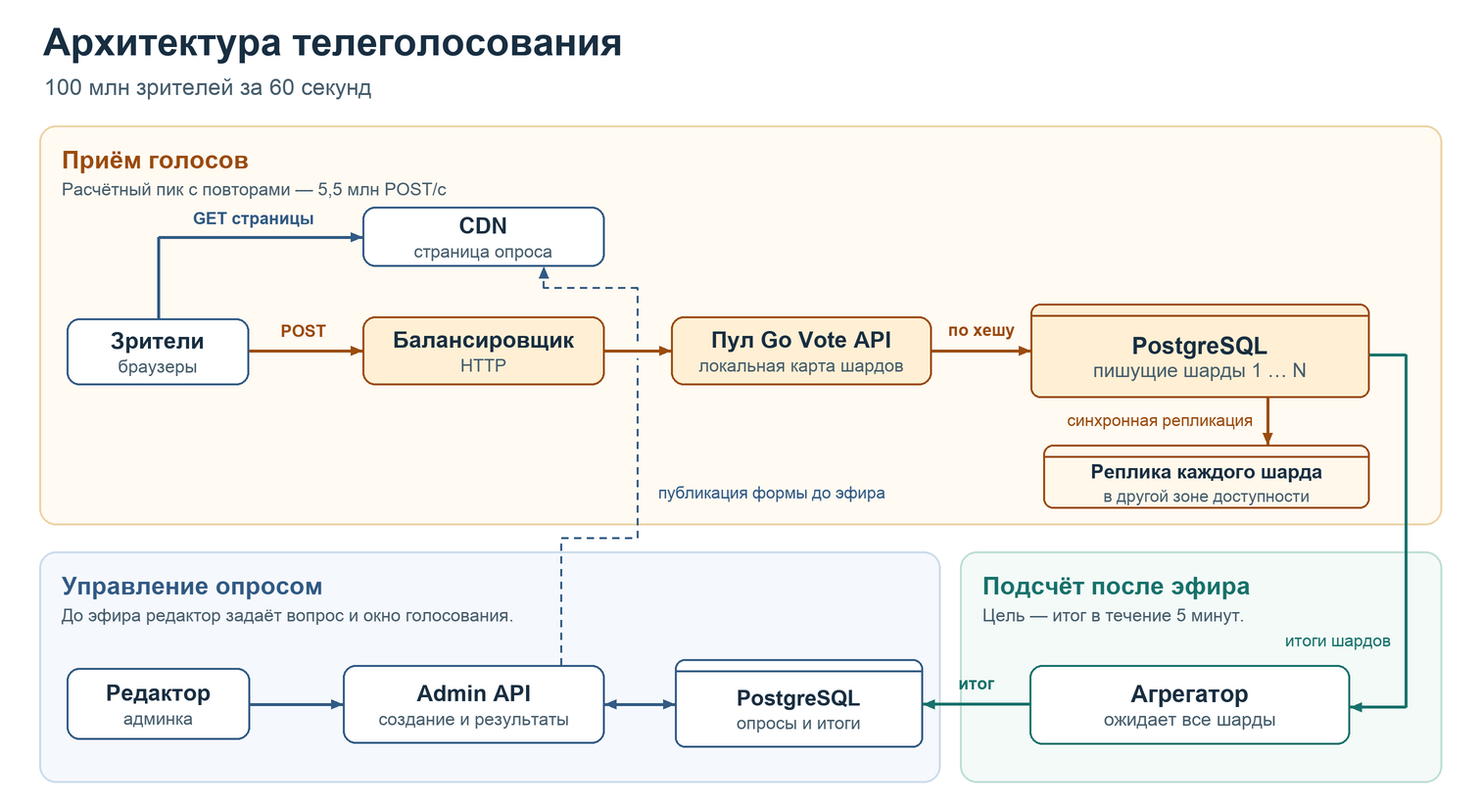
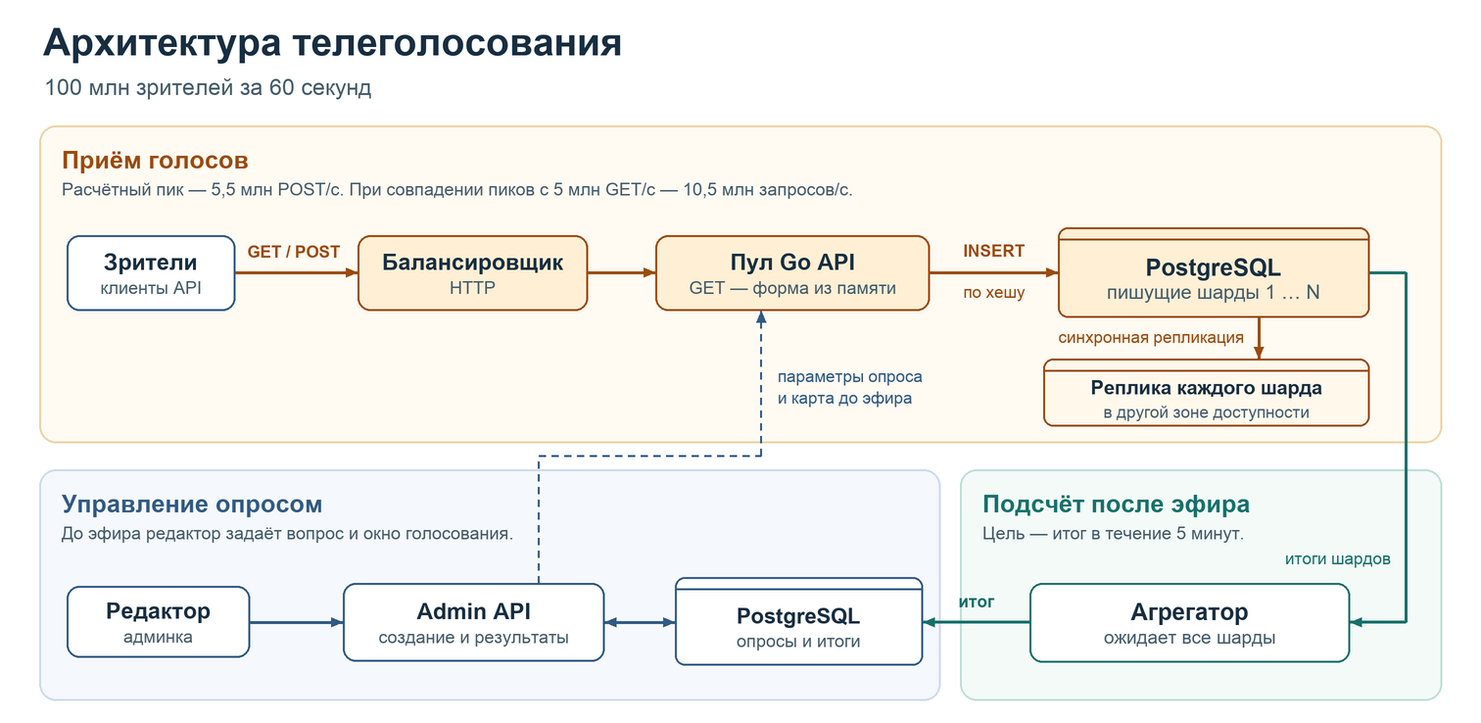
Serve polls and accept votes directly through the Go API

diff --git a/scripts/render_architecture.py b/scripts/render_architecture.py
@@ -6,7 +6,7 @@ from pathlib import Path
 from PIL import Image, ImageDraw, ImageFont
 
 
-WIDTH, HEIGHT = 1512, 822
+WIDTH, HEIGHT = 1512, 738
 SCALE = 2
 canvas = Image.new("RGB", (WIDTH * SCALE, HEIGHT * SCALE), "white")
 draw = ImageDraw.Draw(canvas)
@@ -93,38 +93,38 @@ def group(box, fill, outline, title, subtitle, color):
 
 label(44, 43, 'Архитектура телеголосования', 39, ink, True)
 label(45, 89, '100 млн зрителей за 60 секунд', 23, muted)
-group((40, 128, 1472, 536), '#fffaf2', '#ebd3a5', 'Приём голосов', 'Расчётный пик с повторами — 5,5 млн POST/с', hot)
-group((40, 563, 960, 799), '#f5f8fd', '#cbdbea', 'Управление опросом', 'До эфира редактор задаёт вопрос и окно голосования.', cold)
-group((980, 563, 1472, 799), '#f3faf8', '#bdded6', 'Подсчёт после эфира', 'Цель — итог в течение 5 минут.', tally)
-publication_path = [(573, 679), (573, 549), (651, 549), (651, 366)]
-line(publication_path, cold, 2, True)
-arrow([(651, 348), (651, 294), (555, 294), (555, 272)], cold, 2, True)
-arrow([(162, 325), (162, 242), (370, 242)], cold)
-arrow([(254, 358), (370, 358)], hot)
-arrow([(617, 358), (685, 358)], hot)
-arrow([(951, 358), (1052, 358)], hot)
-arrow([(1294, 406), (1294, 454)], hot)
-arrow([(255, 719), (350, 719)], cold)
-arrow([(617, 719), (689, 719)], cold, 3, False, True)
-arrow([(1398, 362), (1435, 362), (1435, 722), (1378, 722)], tally)
-arrow([(1051, 719), (942, 719)], tally)
-label(259, 223, 'GET страницы', 17, cold, True, 'mm')
-label(310, 338, 'POST', 17, hot, True, 'mm')
-label(1002, 337, 'по хешу', 17, hot, True, 'mm')
-label(1279, 429, 'синхронная репликация', 17, hot, False, 'rm')
-label(672, 503, 'публикация формы до эфира', 17, cold, False, 'lm')
-label(997, 698, 'итог', 17, tally, True, 'mm')
-label(1420, 654, 'итоги шардов', 17, tally, False, 'rm')
-node((68, 325, 254, 393), 'Зрители', 'браузеры', cold, '#ffffff')
-node((370, 211, 617, 272), 'CDN', 'страница опроса', cold, '#ffffff')
-node((370, 323, 617, 393), 'Балансировщик', 'HTTP', hot, '#ffefd4')
-node((685, 323, 951, 393), 'Пул Go Vote API', 'локальная карта шардов', hot, '#ffefd4')
-database((1052, 310, 1398, 406), 'PostgreSQL', 'пишущие шарды 1 … N', hot, '#ffefd4', 24, 20)
-database((1065, 454, 1398, 519), 'Реплика каждого шарда', 'в другой зоне доступности', hot, '#fff8eb', 20, 17)
-node((68, 682, 255, 755), 'Редактор', 'админка', cold)
-node((350, 679, 617, 759), 'Admin API', 'создание и результаты', cold)
-database((689, 673, 942, 763), 'PostgreSQL', 'опросы и итоги', cold, '#ffffff', 22, 18)
-node((1051, 679, 1378, 760), 'Агрегатор', 'ожидает все шарды', tally, '#ffffff', 24, 19)
+group((40, 128, 1472, 452), '#fffaf2', '#ebd3a5', 'Приём голосов', 'Расчётный пик — 5,5 млн POST/с. При совпадении пиков с 5 млн GET/с — 10,5 млн запросов/с.', hot)
+group((40, 479, 960, 715), '#f5f8fd', '#cbdbea', 'Управление опросом', 'До эфира редактор задаёт вопрос и окно голосования.', cold)
+group((980, 479, 1472, 715), '#f3faf8', '#bdded6', 'Подсчёт после эфира', 'Цель — итог в течение 5 минут.', tally)
+
+arrow([(550, 595), (550, 465), (777, 465), (777, 317)], cold, 2, True)
+arrow([(240, 278), (365, 278)], hot)
+arrow([(600, 278), (669, 278)], hot)
+arrow([(949, 278), (1080, 278)], hot)
+arrow([(1285, 324), (1285, 366)], hot)
+arrow([(255, 635), (350, 635)], cold)
+arrow([(617, 635), (689, 635)], cold, 3, False, True)
+arrow([(1398, 278), (1435, 278), (1435, 635), (1378, 635)], tally)
+arrow([(1051, 635), (942, 635)], tally)
+
+label(300, 257, 'GET / POST', 17, hot, True, 'mm')
+label(1015, 256, 'INSERT', 17, hot, True, 'mm')
+label(1015, 298, 'по хешу', 17, hot, False, 'mm')
+label(1270, 344, 'синхронная репликация', 17, hot, False, 'rm')
+label(794, 384, 'параметры опроса', 17, cold)
+label(794, 406, 'и карта до эфира', 17, cold)
+label(997, 614, 'итог', 17, tally, True, 'mm')
+label(1420, 570, 'итоги шардов', 17, tally, False, 'rm')
+
+node((68, 240, 240, 317), 'Зрители', 'клиенты API', cold)
+node((365, 240, 600, 317), 'Балансировщик', 'HTTP', hot, '#ffefd4')
+node((669, 240, 949, 317), 'Пул Go API', 'GET — форма из памяти', hot, '#ffefd4')
+database((1080, 232, 1398, 324), 'PostgreSQL', 'пишущие шарды 1 … N', hot, '#ffefd4', 24, 20)
+database((1065, 366, 1398, 435), 'Реплика каждого шарда', 'в другой зоне доступности', hot, '#fff8eb', 20, 17)
+node((68, 598, 255, 671), 'Редактор', 'админка', cold)
+node((350, 595, 617, 675), 'Admin API', 'создание и результаты', cold)
+database((689, 589, 942, 679), 'PostgreSQL', 'опросы и итоги', cold, '#ffffff', 22, 18)
+node((1051, 595, 1378, 676), 'Агрегатор', 'ожидает все шарды', tally, '#ffffff', 24, 19)
 
 output = Path(__file__).resolve().parents[1] / "architecture.png"
 canvas.resize((WIDTH, HEIGHT), Image.Resampling.LANCZOS).save(output, optimize=True)

diff --git a/DESIGN.md b/DESIGN.md
@@ -16,7 +16,7 @@
 
 ## 2. Сколько трафика придёт
 
-**Целевой эфир — 100 000 000 зрителей, 100 000 000 разных валидных бюллетеней за 60 секунд и ровно 100 000 000 учтённых в финале.** Для модели анонимного голосования каждому зрителю соответствует свой токен в этом опросе. Повторные отправки дают дополнительную нагрузку. Один просмотр страницы и одна отправка бюллетеня дают как минимум 200 млн клиентских запросов за эфир. HTML с вопросом и вариантами публикуется до эфира и раздаётся через CDN.
+**Целевой эфир — 100 000 000 зрителей, 100 000 000 разных валидных бюллетеней за 60 секунд и ровно 100 000 000 учтённых в финале.** Для модели анонимного голосования каждому зрителю соответствует свой токен в этом опросе. Повторные отправки дают дополнительную нагрузку. Клиент с ID опроса, ID выбранных вариантов и своим токеном может сразу отправить POST. В браузерном сценарии каждый зритель сначала открывает форму по QR. Тогда на Go-сервис приходится 100 млн GET страницы и как минимум 100 млн POST голоса за эфир.
 
 | Профиль одного эфира | Новых бюллетеней/с | POST/с при одном дополнительном запросе у 10% зрителей |
 |---|---:|---:|
@@ -24,13 +24,13 @@
 | Сценарий пика, 50 млн за самые загруженные 10 с | 5,00 млн | 5,50 млн |
 | Оставшиеся 50 млн за 50 с | 1,00 млн | 1,10 млн |
 
-В сценарии пика за первые 10 секунд приходят 50 млн новых бюллетеней и 5 млн повторов, за следующие 50 секунд — ещё столько же. Итого **110 млн POST и 100 млн бюллетеней в результате**. При одном GET страницы на зрителя это 210 млн клиентских запросов за эфир.
+В сценарии пика за первые 10 секунд приходят 50 млн новых бюллетеней и 5 млн повторов, за следующие 50 секунд — ещё столько же. Итого **110 млн POST и 100 млн бюллетеней в результате**. При одном GET страницы на зрителя это 210 млн запросов к Go-сервису за эфир, в среднем 3,5 млн/с. Если пик открытий страницы (5 млн GET/с) совпадёт с пиком отправок, балансировщик и пул API получат 10,5 млн запросов/с. Для GET экземпляр API отдаёт заранее подготовленный HTML из памяти. Шарды обслуживают запросы записи и проверку повторов.
 
-Пик и доля повторов — допущения для испытаний. В таблице повторы распределены пропорционально новым запросам. После сетевого сбоя они могут прийти одной волной. При условных 500 байтах на POST пиковые 5,5 млн попыток/с требуют **22 Гбит/с** входящего HTTP-трафика, сверх этого нужны ответы, транспортные накладные расходы и внутренняя сеть. Для оценки хранения даже один 32-байтовый хеш на каждый бюллетень даёт 3,2 ГБ за эфир. К нему добавятся варианты, строки и индекс БД, WAL, реплики и резервные копии.
+Пик и доля повторов — допущения для испытаний. В таблице повторы распределены пропорционально новым запросам. После сетевого сбоя они могут прийти одной волной. При условных 500 байтах на POST пиковые 5,5 млн попыток/с требуют **22 Гбит/с** на входе только для голосования. При раздаче формы стоит отдельно измерить исходящую полосу: например, при размере сжатой страницы 2 000 байт и пике 5 млн GET/с только тело HTML занимает ещё 80 Гбит/с на выходе. Отдельно учитываются заголовки, транспорт и внутренняя сеть. Для оценки хранения даже один 32-байтовый хеш на каждый бюллетень даёт 3,2 ГБ за эфир. К нему добавятся варианты, строки и индекс БД, WAL, реплики и резервные копии.
 
 ## 3. Архитектура сервиса
 
-Схема показывает компоненты для национального эфира. Выделенный путь записи рассчитан на сценарий, в котором 100 млн зрителей голосуют за минуту, а пиковая нагрузка с повторами достигает 5,5 млн POST/с. Для локальной демонстрации Vote API, Admin API и задача подсчёта работают в одном процессе Go, все таблицы находятся в одной базе PostgreSQL.
+Схема показывает компоненты для национального эфира. Выделенный путь записи рассчитан на сценарий, в котором 100 млн зрителей голосуют за минуту, а пиковая нагрузка с повторами достигает 5,5 млн POST/с. Для локальной демонстрации публичный API, Admin API и задача подсчёта работают в одном процессе Go, все таблицы находятся в одной базе PostgreSQL.
 
 ![Архитектура телеголосования с контурами приёма, подсчёта и управления опросами](architecture.png)
 
@@ -41,15 +41,14 @@
 flowchart LR
     viewer(["Зрители"])
     editor(["Редактор"])
-    cdn["CDN<br/>Страница опроса"]
 
     subgraph live["Приём голосов во время эфира · 60 секунд"]
         lb["Балансировщик"]
-        api["Пул Go Vote API<br/>Локальная карта шардов"]
+        api["Пул Go API<br/>Форма и карта шардов в памяти"]
         ballots[("PostgreSQL<br/>Шарды бюллетеней 1 … N")]
         replicas[("Синхронная реплика<br/>каждого шарда в другой зоне")]
         lb --> api
-        api -->|"Один шард по хешу"| ballots
+        api -->|"INSERT · один шард по хешу"| ballots
         ballots -->|"Репликация WAL"| replicas
     end
 
@@ -63,10 +62,8 @@ flowchart LR
         admin <-->|"Запись опроса и чтение итога"| results
     end
 
-    viewer -->|"GET формы по QR"| cdn
-    viewer -->|"POST голоса"| lb
+    viewer -->|"GET формы или POST голоса"| lb
     editor -->|"Создать опрос или открыть отчёт"| admin
-    admin -.->|"Публикация до эфира"| cdn
     admin -.->|"Версия опроса и карта до эфира"| api
     ballots -->|"Итог каждого закрытого шарда"| tally
     tally -->|"Полный итог"| results
@@ -79,11 +76,11 @@ flowchart LR
 
 **Один голос — один пишущий шард.** Балансировщик выбирает один из доступных экземпляров API. Хеш ключа зрителя определяет шард, поэтому повтор попадёт в ту же базу через любой экземпляр API. Подтверждение нового голоса ждёт записи на primary и его синхронной реплике. При подготовке итогового отчёта нужны данные со всех шардов.
 
-**Публикация.** Сервис проверяет варианты и расписание, фиксирует версию опроса и раскладывает её вместе с картой шардов до эфира. Ссылку для показа можно выдавать после готовности всех назначенных шардов и публикации страницы. Вопрос и окно неизменны после публикации. Резервируются мощности API и БД, прогреваются CDN и пулы соединений. Приём уже опубликованного опроса не обращается в центральную админскую БД.
+**Публикация.** Сервис проверяет варианты и расписание, фиксирует версию опроса и раскладывает её вместе с картой шардов до эфира. Ссылку для показа можно выдавать после готовности всех назначенных шардов и публикации страницы. Вопрос и окно неизменны после публикации. До эфира каждый экземпляр публичного API загружает параметры опроса, готовит общую HTML-страницу и открывает пул соединений с БД. Балансировщик направляет трафик на готовые экземпляры. Приём уже опубликованного опроса не обращается в центральную админскую БД.
 
-**Открытие ссылки.** GET отдаёт общий HTML со встроенными параметрами вопроса. Предпросмотр ссылки в мессенджере безопасен. Перед отправкой JS получает или создаёт случайный 128-битный токен для данного эфира в одной `readwrite`-транзакции IndexedDB. Обе вкладки одного origin прочитают один ключ, если дождаться завершения транзакции перед POST. Идентификатор не попадает в URL или кэшируемый ответ. При недоступном хранилище форма просит открыть ссылку в браузере с доступным локальным хранилищем. Такой выбор экономит ещё 100 млн вызовов отдельной ручки выдачи токенов. [Планирование транзакций IndexedDB](https://www.w3.org/TR/IndexedDB-2/#transaction-scheduling)
+**Открытие ссылки.** По QR браузер вызывает `GET /p/{id}`. Go-сервис возвращает общий HTML из памяти экземпляра. Предпросмотр ссылки в мессенджере безопасен. Перед отправкой JS получает или создаёт случайный 128-битный токен для данного эфира в одной `readwrite`-транзакции IndexedDB. Обе вкладки одного origin прочитают один ключ, если дождаться завершения транзакции перед POST. Идентификатор не попадает в URL или кэшируемый ответ. При недоступном хранилище форма просит открыть ссылку в браузере с доступным локальным хранилищем. Такой выбор экономит ещё 100 млн вызовов отдельной ручки выдачи токенов. [Планирование транзакций IndexedDB](https://www.w3.org/TR/IndexedDB-2/#transaction-scheduling)
 
-**Отправка.** API принимает токен и список ID. Проверяет формат, размер, принадлежность вариантов опубликованному вопросу, границы количества и отсутствие повторов. Сортирует ID, поэтому `[2,1]` и `[1,2]` дают один ответ. Вычисляет `voter_key = SHA-256(poll_uuid_bytes || token_bytes)` из двух полей фиксированной длины. Все копии API направляют ключ в один физический шард по зафиксированной карте. Там хранится одна строка на бюллетень с первичным ключом `(poll_id, voter_key)` и выбранными вариантами. Строка одновременно служит голосом и отметкой о его приёме.
+**Отправка.** Ручку `POST /api/polls/{id}/votes` можно вызвать напрямую. Предварительный GET и серверная сессия для этого не требуются. API принимает токен и список ID. Проверяет формат, размер, принадлежность вариантов опубликованному вопросу, границы количества и отсутствие повторов. Сортирует ID, поэтому `[2,1]` и `[1,2]` дают один ответ. Вычисляет `voter_key = SHA-256(poll_uuid_bytes || token_bytes)` из двух полей фиксированной длины. Все копии API направляют ключ в один физический шард по зафиксированной карте. Там хранится одна строка на бюллетень с первичным ключом `(poll_id, voter_key)` и выбранными вариантами. Строка одновременно служит голосом и отметкой о его приёме.
 
 **Подтверждение.** В открытом окне транзакция выполняет `INSERT ... ON CONFLICT (poll_id, voter_key) DO NOTHING RETURNING ...`. Успешный COMMIT новой строки даёт `201 counted`. При конфликте следующий SQL-запрос в режиме `READ COMMITTED` читает победившую строку на том же primary. Равный набор вариантов даёт `200 already_counted`, другой — `409 already_voted`. Отдельный запрос важен при гонке с ещё не зафиксированной строкой другой транзакции. Тайм-аут при COMMIT оставляет исход неизвестным. Клиент повторяет запрос с прежним токеном и выбором, сервер снова определяет исход по записи. [PostgreSQL INSERT](https://www.postgresql.org/docs/current/sql-insert.html) · [Видимость конкурентных записей](https://www.postgresql.org/docs/current/transaction-iso.html#XACT-READ-COMMITTED)
 
@@ -92,11 +89,11 @@ flowchart LR
 | Запрос | Ответ |
 |---|---|
 | `POST /admin/polls` | Авторизованный редактор задаёт вопрос, варианты и окно. После подготовки получает `201`, ID и публичный URL. |
-| `GET /p/{id}` | Общая форма с вариантами. Голосование требует явной отправки. |
+| `GET /p/{id}` | Публичный Go API отдаёт готовую форму из памяти. Голосование требует явной отправки. |
 | `POST /api/polls/{id}/votes` | Тело, например `{"token":"<32 hex-символа>","choices":[2,4]}`. Исходы записи описаны выше. До начала — `409 not_open`, после закрытия для нового голоса — `410 closed`, неверный бюллетень — `422`. При недоступности хранилища или исчерпании ограниченного пула — `503`. |
 | `GET /admin/polls/{id}/results` | Состояние `scheduled`, `open`, `finalizing` или `final`. В финале отдаём `total_ballots` и число голосов по каждому варианту. Обе админские ручки требуют Bearer-секрет из окружения, в эксплуатации — HTTPS. |
 
-Публичный API принимает POST на том же origin. Значение токена, тело бюллетеня и заголовок авторизации исключаются из журналов приложения, прокси и трассировщика. Административный интерфейс выдаёт только агрегаты. Во время обработки хранилище всё же содержит связь псевдонима с выбором. Предлагаемый срок для повторов — 24 часа после публикации итога, затем удаляем исходные бюллетени, оставляем отчёт и возвращаем `410` для поздних попыток. Доступ и срок жизни копий и WAL настраиваются отдельно. Очистка данных браузера или другое устройство дают новый токен. Привязка к IP лишила бы голоса часть зрителей за операторским NAT. [RFC 6888, общий адрес у нескольких абонентов](https://www.rfc-editor.org/rfc/rfc6888.html#section-1)
+Форма в браузере отправляет POST на тот же origin. Публичная ручка применяет одинаковые правила к браузерным запросам и другим HTTP-клиентам. Значение токена, тело бюллетеня и заголовок авторизации исключаются из журналов приложения, прокси и трассировщика. Административный интерфейс выдаёт только агрегаты. Во время обработки хранилище всё же содержит связь псевдонима с выбором. Предлагаемый срок для повторов — 24 часа после публикации итога, затем удаляем исходные бюллетени, оставляем отчёт и возвращаем `410` для поздних попыток. Доступ и срок жизни копий и WAL настраиваются отдельно. Очистка данных браузера или другое устройство дают новый токен. Привязка к IP лишила бы голоса часть зрителей за операторским NAT. [RFC 6888, общий адрес у нескольких абонентов](https://www.rfc-editor.org/rfc/rfc6888.html#section-1)
 
 ## 4. Последняя миллисекунда и окончательный результат
 
@@ -133,7 +130,7 @@ flowchart LR
 | Граница окна и потеря ответа | Тест управляемо задерживает COMMIT допущенного запроса до закрытия. Финализатор ждёт, ретрай корректно узнаёт прежний выбор, новый поздний токен получает `410`. |
 | Сбой | Остановить API после COMMIT до записи HTTP-ответа, перезапустить и повторить POST. Прервать сбор частичных итогов, повторить его и сравнить с подсчётом бюллетеней. |
 | Состав ответа | Пустой опрос, A/B, разный порядок при multi-select, повтор варианта, вариант из другого опроса и неверное число вариантов. Проверить нулевые варианты и знаменатель процентов. |
-| Нагрузка | k6 с открытой моделью поступления. Один горячий опрос, 90% выбрали A, новый токен на зрителя и прежний токен на ретрай. Нагрузку повышать ступенями, отдельно воспроизвести пик и волну повторов. |
+| Нагрузка | k6 с открытой моделью поступления. Один горячий опрос, 90% выбрали A, новый токен на зрителя и прежний токен на ретрай. Запустить профиль прямых POST. Затем добавить независимый поток GET с совпадающим пиком и проверить задержку записи, пропускную способность и исходящий трафик раздачи HTML. |
 
 **Критерий приёмки на полной аудитории.** Для одного A/B-опроса генераторы получают непересекающиеся диапазоны номеров зрителей от 0 до 99 999 999. Каждому номеру соответствует уникальный тестовый токен. Номера с последней цифрой 9 выбирают B, остальные — A. Для каждого десятого номера генератор дополнительно посылает тот же бюллетень. За минуту на входе должны оказаться все 100 млн исходных запросов и 10 млн запланированных повторов. Пропущенная генератором отправка или зритель, потерявший возможность проголосовать из-за перегрузки до закрытия окна, означает провал испытания.
 

diff --git a/AI.md b/AI.md
@@ -53,7 +53,7 @@
 
 ## Выбор для проекта
 
-Проект предусматривает HTTP-сервис на Go и синхронную фиксацию бюллетеня в PostgreSQL. CDN обслуживает публичную страницу и общие данные вопроса. Для промышленного контура ключ браузера в пределах опроса определяет шард. Запросы одного зрителя попадают к одному владельцу данных, а голоса за самый популярный вариант распределяются между шардами. Доказательство требуемой мощности потребует замеров на выбранном оборудовании с репликацией, повторами и профилем пика. Подробности и критерии проверки собраны в [проекте архитектуры](DESIGN.md).
+Проект предусматривает HTTP-сервис на Go и синхронную фиксацию бюллетеня в PostgreSQL. В первоначальной схеме CDN отдавал страницу опроса. В текущей версии её отдаёт публичный Go API из памяти. Для промышленного контура ключ браузера в пределах опроса определяет шард. Запросы одного зрителя попадают к одному владельцу данных, а голоса за самый популярный вариант распределяются между шардами. Доказательство требуемой мощности потребует замеров на выбранном оборудовании с репликацией, повторами и профилем пика. Подробности и критерии проверки собраны в [проекте архитектуры](DESIGN.md).
 
 ## Какие предположения отбросили
 
@@ -81,3 +81,12 @@
 Диаграмму последовательности заменили картой компонентов проектируемой системы. Выделены путь записи во время эфира, шардирование и синхронная репликация, подсчёт после закрытия и административный API.
 
 Для просмотра в чате и на GitHub сохранён [PNG](architecture.png). Для пересборки нужен Python с Pillow и команда `python3 scripts/render_architecture.py`. [Исходник иллюстрации](scripts/render_architecture.py)
+
+
+## Прямая отправка голоса
+
+> а cdn зачем на этой схеме?
+>
+> нам разве не все равно откуда приходит запрос? и почему сразу нельзя просто через ручку, бес cdn?
+
+Для вызова ручки голосования достаточно ID опроса, выбранных вариантов и токена клиента. Убрали CDN из базовой схемы. Тот же пул Go API обслуживает GET формы по QR и прямой POST. Для браузерного сценария добавлен расчёт суммарной нагрузки при совпадающих пиках чтения и записи.
